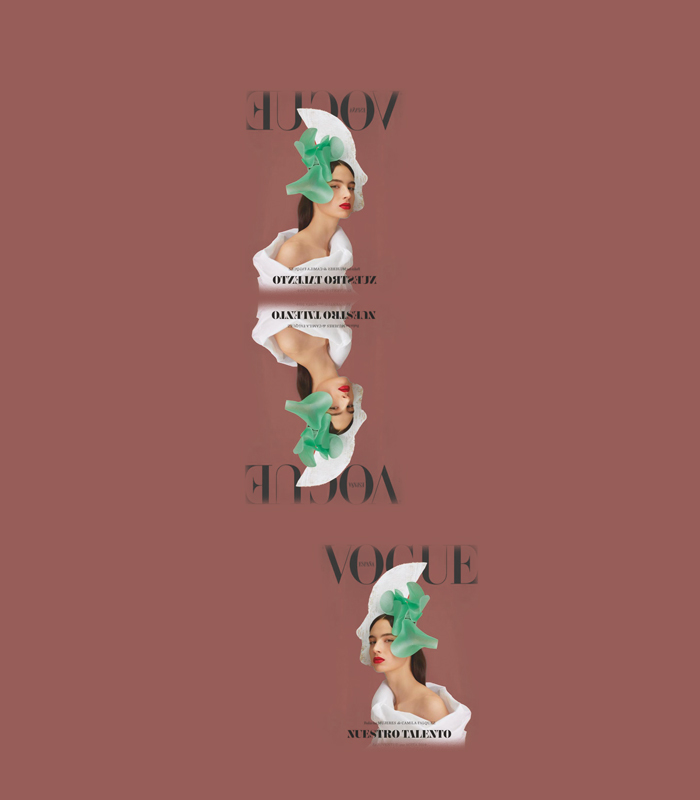
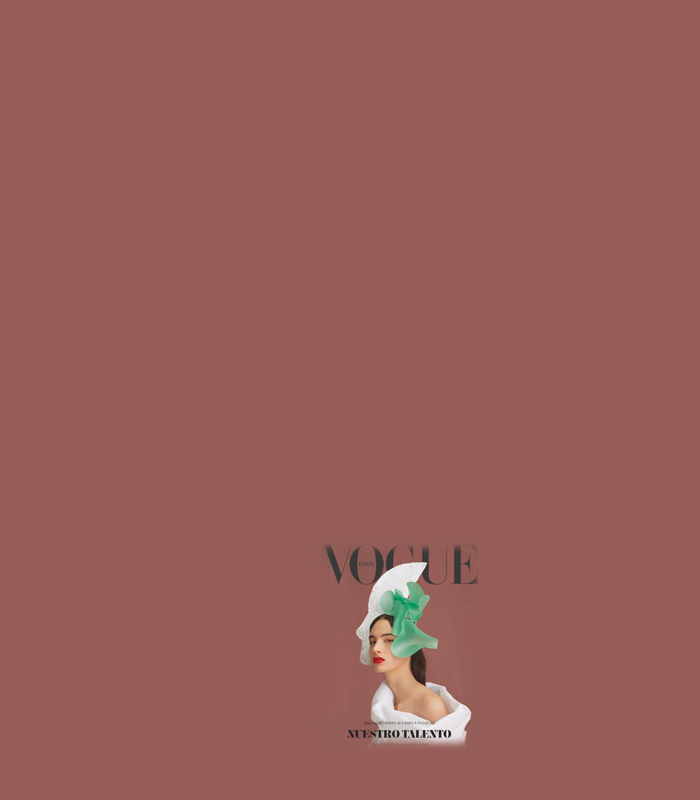
fixed face

Changed region(s): [[0.36, 0.0938, 0.57, 0.625], [0.36, 0.0938, 0.39, 0.1875], [0.36, 0.5625, 0.39, 0.625]]

diff --git a/src/app/components/Home.js b/src/app/components/Home.js
@@ -1,4 +1,5 @@
 import React from 'react';
+import paper from '../assets/paper-background.jpg';
 import MagHair from '../assets/magazine-hair.png';
 import MagHairBack from '../assets/the-gentleman.jpg';
 import MagEyebrows from '../assets/magazine-eyebrows.png';
@@ -16,8 +17,8 @@ import styled from 'styled-components';
 export const Home = () => {
     return (
         <Container>
+            <img style={{position: 'absolute', top: 0, left: 0, zIndex: 0, width: '100%', height: '100vh'}} src={paper}/> 
             <Face>
-                {/* <StyledImg src={paper}/> */}
                 <StyledHair />
                 <StyledEyebrows />
                 <StyledEyes src={MagEyes} />
@@ -30,8 +31,8 @@ export const Home = () => {
     )
 }
 
-const headHeight = '91vh';
-const headWidth = '44%';
+const headHeight = '85vh';
+const headWidth = '42%';
 
 
 const Container = styled.div`
@@ -51,6 +52,37 @@ const Face = styled.div`
     width: ${headWidth};
     height: ${headHeight};
 `
+
+/**************************
+ keep just in case
+ *************************/
+// const StyledHair = styled.div`
+//     position: absolute; 
+//     top:0;
+//     left:0;
+//     width: 100%;
+//     height: 100%;
+//     background: url(${MagHairBack}) fixed;
+//     background-position: 0% 8vh;
+//     background-size: contain;
+//     -webkit-mask: url(${MagHair});
+//     -webkit-mask-size: 100% 100%;
+//     -webkit-mask-repeat: no-repeat;
+// `
+// const StyledFace = styled.div`
+//     position: absolute; 
+//     top:0;
+//     left:0;
+//     width: 100%;
+//     height: 100%;
+//     background: url(${MagFaceBack}) fixed;
+//     background-position: -3% 8vh;
+//     background-size: contain;
+//     -webkit-mask: url(${MagFace});
+//     -webkit-mask-size: 100% 100%;
+//     -webkit-mask-repeat: no-repeat;
+// `
+/**************************/
 const StyledHair = styled.div`
     position: absolute; 
     top:0;
@@ -58,8 +90,8 @@ const StyledHair = styled.div`
     width: 100%;
     height: 100%;
     background: url(${MagHairBack}) fixed;
-    background-position:1% 6vh;
-    background-size: contain;
+    background-position: 6% 11vh;
+    background-size: 41% 90%;
     -webkit-mask: url(${MagHair});
     -webkit-mask-size: 100% 100%;
     -webkit-mask-repeat: no-repeat;
@@ -71,8 +103,8 @@ const StyledFace = styled.div`
     width: 100%;
     height: 100%;
     background: url(${MagFaceBack}) fixed;
-    background-position: 0% 5vh;
-    background-size: contain;
+    background-position: 6% 11.5vh;
+    background-size: 41% 86%;
     -webkit-mask: url(${MagFace});
     -webkit-mask-size: 100% 100%;
     -webkit-mask-repeat: no-repeat;
@@ -84,7 +116,7 @@ const StyledLips = styled.div`
     width: 100%;
     height: 100%;
     background: url(${MagLipsBack}) fixed;
-    background-position:1% 2vh;
+    background-position:-2.5% 0vh;
     background-size: contain;
     -webkit-mask: url(${MagLips});
     -webkit-mask-size: 100% 100%;
@@ -97,7 +129,7 @@ const StyledEyebrows = styled.div`
     width: 100%;
     height: 100%;
     background: url(${MagEyebrowsBack}) fixed;
-    background-position: 0% 5.5vh;
+    background-position: -4% 6vh;
     background-size: contain;
     -webkit-mask: url(${MagEyebrows});
     -webkit-mask-size: 100% 100%;
